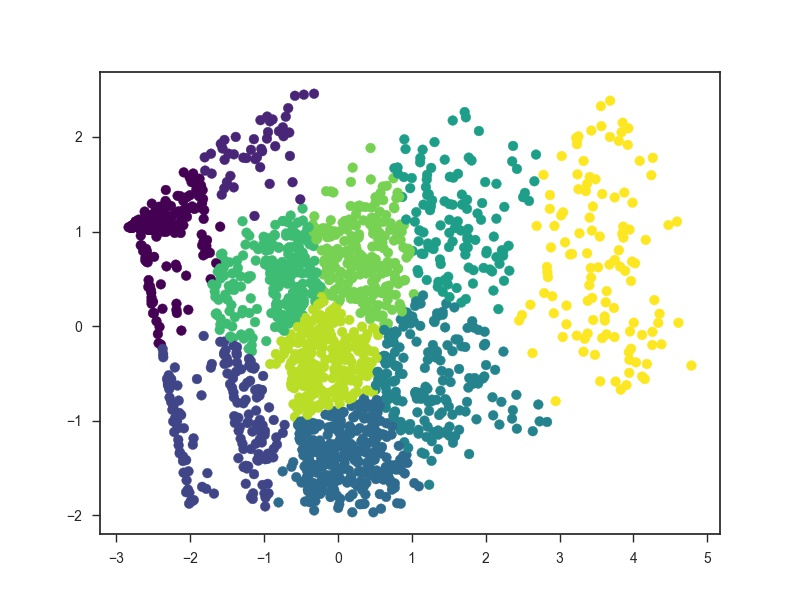
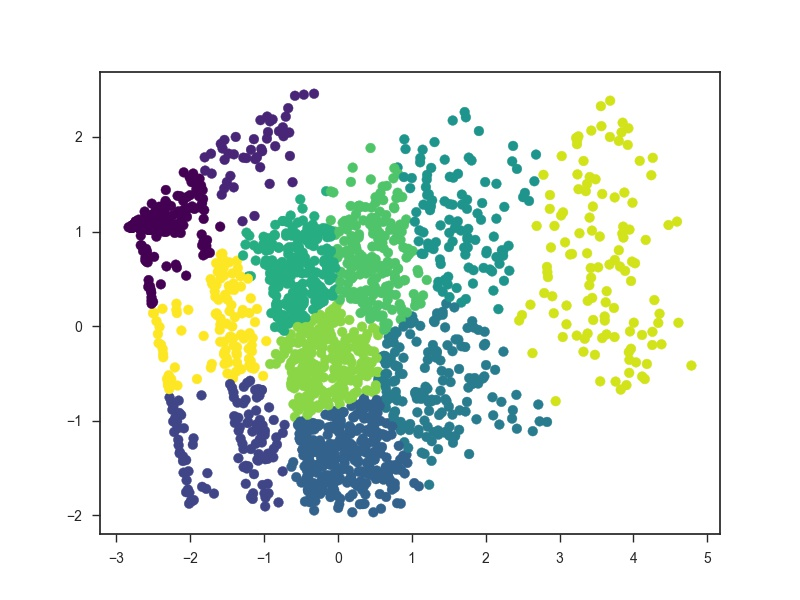
updated again

diff --git a/Project3/Templates/index.html b/Project3/Templates/index.html
@@ -114,13 +114,13 @@
         <div class="container-fluid">   
     <div class="row">
         <div class="col-lg-4 col-md-6 mb-5 mb-lg-0">
-            <h4 style="color:rgb(62, 128, 0)"><strong>Continuous Distribution</strong></h4>
+            <h4 style="color:rgb(62, 128, 0)"><strong>Continuous Var Customer Distribution</strong></h4>
             <span class="service-icon mx-auto mb-3">
               <img src="{{ histImageUrl }}"  width="500"/>
             </span>
         </div>
         <div class="col-lg-4 col-md-6 mb-5 mb-lg-0">
-            <h4 style="color:rgb(62, 128, 0)"><strong>Categorical Distribution</strong></h4>
+            <h4 style="color:rgb(62, 128, 0)"><strong>Categorical Var TotalCharge Distribution</strong></h4>
             <span class="service-icon mx-auto mb-3">
                 <img src="{{ barImageUrl }}"  width="500"/>
               </span>
@@ -130,7 +130,7 @@
         </div>
 
         <div class="col-lg-4 col-md-6 mb-5 mb-lg-0">
-            <h4 style="color:rgb(62, 128, 0)"><strong>Correalation</strong></h4>
+            <h4 style="color:rgb(62, 128, 0)"><strong>Correlation</strong></h4>
             <span class="service-icon mx-auto mb-3">
                 <img src="{{ corrFigpath }}"  width="500"/>
               </span>
@@ -159,20 +159,20 @@
                 <td style="padding:5px">train_score</td>
                 <td style="padding:5px">{{train_score}}</td>
             </tr>
-            <tr>
+             <tr>
                 <td style="padding:5px">test_score</td>
                 <td style="padding:5px">{{test_score}}</td>
             </tr>
-            <tr>
+            <!-- <tr>
                 <td style="padding:5px">auc_score_train</td>
                 <td style="padding:5px">{{auc_score_train}}</td>
-            </tr>
-            <tr>
-                <td style="padding:5px">auc_score_test</td>
+            </tr> --> -->
+            <!-- <tr>
+                <td style="padding:5px">auc</td>
                 <td style="padding:5px">{{auc_score_test}}</td>
-            </tr>
+            </tr> -->
             <tr>
-                <td style="padding:5px">logit_roc_auc</td>
+                <td style="padding:5px">auc</td>
                 <td style="padding:5px">{{logit_roc_auc}}</td>
             </tr>
             <tr>
@@ -255,19 +255,19 @@
     <div class="container-fluid">
         <div class="row" >
             <div class="col-lg-4 col-md-6 mb-5 mb-lg-0">
-                <h4 style="color:rgb(62, 128, 0)"><strong>Clustering</strong></h4>
+                <h4 style="color:rgb(62, 128, 0)"><strong>Scatter Plot</strong></h4>
                 <span class="service-icon mx-auto mb-3">
                   <img src="{{ clusterimageurl }}"  width="500"/>
                 </span>
             </div>  
             <div class="col-lg-4 col-md-6 mb-5 mb-lg-0">
-                <h4 style="color:rgb(62, 128, 0)"><strong>Clustering1</strong></h4>
+                <h4 style="color:rgb(62, 128, 0)"><strong>k Mean Clustering</strong></h4>
                 <span class="service-icon mx-auto mb-3">
                   <img src="{{ clusterimageurl1 }}"  width="500"/>
                 </span>
             </div> 
             <div class="col-lg-4 col-md-6 mb-5 mb-lg-0">
-                <h4 style="color:rgb(62, 128, 0)"><strong>Clustering2</strong></h4>
+                <h4 style="color:rgb(62, 128, 0)"><strong>Manual Clustering</strong></h4>
                 <span class="service-icon mx-auto mb-3">
                   <img src="{{ clusterimageurl2 }}"  width="500"/>
                 </span>

diff --git a/Project3/app.py b/Project3/app.py
@@ -87,6 +87,7 @@ def index():
     #print(DataObject)
 
     # # Correaltion matrix plot
+    
     def plot_corr(total_data, corrFigpath,size=11):
         corr = total_data.corr()  
         cmap = cm.get_cmap('viridis',30)
@@ -98,6 +99,8 @@ def index():
         ax.matshow(corr, interpolation="nearest", cmap=cmap)   # color code the rectangles by correlation value
         plt.xticks(range(len(corr.columns)), corr.columns)  # draw x tick marks
         plt.yticks(range(len(corr.columns)), corr.columns)  # draw y tick marks
+        cax = ax.imshow(total_data.corr(), interpolation="nearest", cmap=cmap) 
+        fig.colorbar(cax, ticks=[-0.75,-1,-0.5,0,0.5,0.75,+1])
         plt.savefig(corrFigpath)
     #     fig.colorbar()
 
@@ -105,7 +108,7 @@ def index():
     plot_corr(total_data,corrFigpath)
 
     total_data.corr()
-    del total_data['TOTAL_MINUTES_OF_USE']
+    # del total_data['TOTAL_MINUTES_OF_USE']
     correaltion=plot_corr(total_data,corrFigpath)
 
     DataObject["correaltion"]=correaltion
@@ -212,7 +215,7 @@ def index():
                 mean_p = np.mean(data, axis=0)
                 dist_log = []
                 result = []
-                while len(result) < K:
+                while len(result) <= K:
                     if not dist_log:
                         p = data[rand(0, K - 1)]
                         result.insert(0, p)
